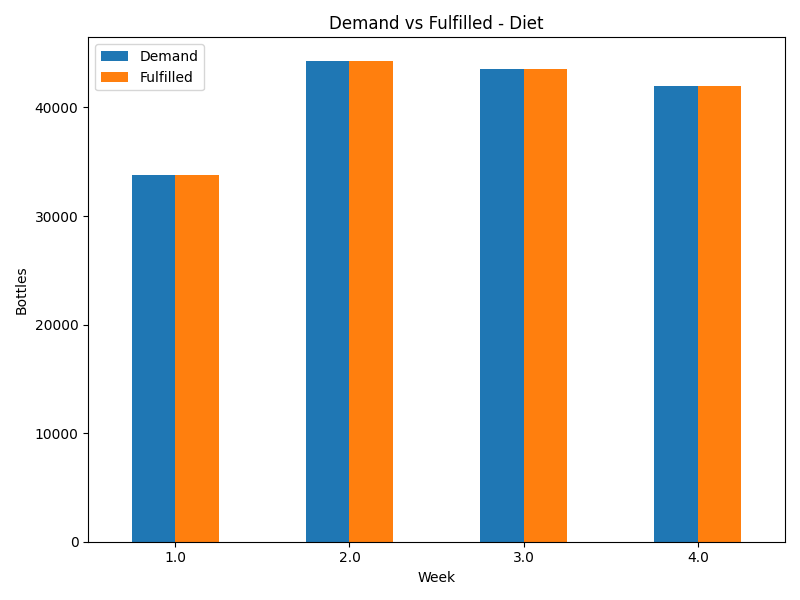
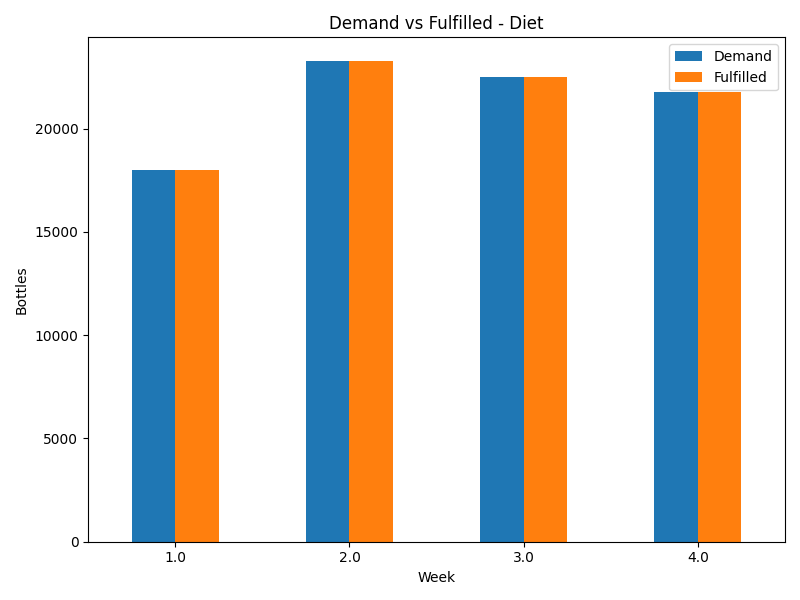
fixed

diff --git a/planner.py b/planner.py
@@ -12,8 +12,8 @@ os.makedirs(OUTPUT_DIR, exist_ok=True)
 RESERVE_CAPACITY = 5000
 current_reserve = RESERVE_CAPACITY
 
-def generate_random_demand(num_weeks=4, base_regular_north=30000, base_diet_north=20000, 
-                          base_regular_south=25000, base_diet_south=15000, variance=0.2, seed=None):
+def generate_random_demand(num_weeks=4, base_regular_north=15000, base_diet_north=10000, 
+                          base_regular_south=12000, base_diet_south=8000, variance=0.2, seed=None):
     """
     Generate random demand data with some variance around base values
     
@@ -82,9 +82,10 @@ demand_data = generate_random_demand(num_weeks=4, seed=42).to_dict('list')
 demand_df = pd.DataFrame(demand_data)
 
 # ---------- Planning Logic ----------
-def plan_production_with_reserve(demand_df, capacity):
+def plan_production_with_reserve(demand_df, capacity, container_size=750):
     """
     Plan production considering reserve system.
+    Production is rounded to container multiples.
     When demand exceeds production, dip into reserve.
     When production exceeds demand, refill reserve.
     """
@@ -98,58 +99,76 @@ def plan_production_with_reserve(demand_df, capacity):
         diet_demand = row["North_Diet"] + row["South_Diet"]
         total_demand = reg_demand + diet_demand
         
-        # Calculate what we can produce this week
+        # Calculate what we can produce this week (round to container multiples)
         if total_demand <= capacity:
             # We can meet all demand with production
-            reg_prod = reg_demand
-            diet_prod = diet_demand
-            total_prod = total_demand
+            # Round each SKU production to container multiples
+            reg_prod = int(np.ceil(reg_demand / container_size)) * container_size
+            diet_prod = int(np.ceil(diet_demand / container_size)) * container_size
+            total_prod = reg_prod + diet_prod
+            
+            # Check if rounded production exceeds capacity
+            if total_prod > capacity:
+                # Scale down proportionally and round to containers
+                scale = capacity / total_prod
+                reg_prod = int(reg_prod * scale // container_size) * container_size
+                diet_prod = int(diet_prod * scale // container_size) * container_size
+                total_prod = reg_prod + diet_prod
             
             # Calculate surplus production
             surplus = capacity - total_prod
             
-            # Use surplus to refill reserve
-            reserve_refill = min(surplus, RESERVE_CAPACITY - current_reserve)
-            current_reserve += reserve_refill
-            
-            reserve_transactions.append({
-                'Week': week,
-                'Action': 'Refill',
-                'Amount': reserve_refill,
-                'Reserve_Before': current_reserve - reserve_refill,
-                'Reserve_After': current_reserve,
-                'Surplus_Used': reserve_refill,
-                'Remaining_Surplus': surplus - reserve_refill
-            })
+            # Use surplus to refill reserve (only if we have meaningful surplus)
+            if surplus >= container_size:
+                reserve_refill = min(surplus, RESERVE_CAPACITY - current_reserve)
+                # Round reserve refill to container multiples
+                reserve_refill = int(reserve_refill // container_size) * container_size
+                current_reserve += reserve_refill
+                
+                if reserve_refill > 0:
+                    reserve_transactions.append({
+                        'Week': week,
+                        'Action': 'Refill',
+                        'Amount': reserve_refill,
+                        'Reserve_Before': current_reserve - reserve_refill,
+                        'Reserve_After': current_reserve,
+                        'Surplus_Used': reserve_refill,
+                        'Remaining_Surplus': surplus - reserve_refill
+                    })
             
         else:
             # Demand exceeds capacity - need to use reserve
             deficit = total_demand - capacity
             reserve_used = min(deficit, current_reserve)
+            # Round reserve usage to container multiples
+            reserve_used = int(reserve_used // container_size) * container_size
             current_reserve -= reserve_used
             
-            # Scale production to capacity
-            scale = capacity / total_demand
-            reg_prod = int(reg_demand * scale)
-            diet_prod = int(diet_demand * scale)
+            # Scale production to capacity and round to containers
+            available_production = capacity + reserve_used
+            scale = available_production / total_demand
             
-            # Add reserve to production allocation proportionally
-            if total_demand > 0:
-                reg_from_reserve = int(reserve_used * reg_demand / total_demand)
-                diet_from_reserve = reserve_used - reg_from_reserve
-                
-                reg_prod += reg_from_reserve
-                diet_prod += diet_from_reserve
+            reg_prod = int(reg_demand * scale // container_size) * container_size
+            diet_prod = int(diet_demand * scale // container_size) * container_size
             
-            reserve_transactions.append({
-                'Week': week,
-                'Action': 'Use',
-                'Amount': reserve_used,
-                'Reserve_Before': current_reserve + reserve_used,
-                'Reserve_After': current_reserve,
-                'Deficit': deficit,
-                'Unmet_Demand': deficit - reserve_used
-            })
+            # Ensure we don't exceed available production
+            total_prod = reg_prod + diet_prod
+            if total_prod > available_production:
+                # Reduce proportionally
+                scale_down = available_production / total_prod
+                reg_prod = int(reg_prod * scale_down // container_size) * container_size
+                diet_prod = int(diet_prod * scale_down // container_size) * container_size
+            
+            if reserve_used > 0:
+                reserve_transactions.append({
+                    'Week': week,
+                    'Action': 'Use',
+                    'Amount': reserve_used,
+                    'Reserve_Before': current_reserve + reserve_used,
+                    'Reserve_After': current_reserve,
+                    'Deficit': deficit,
+                    'Unmet_Demand': max(0, total_demand - capacity - reserve_used)
+                })
         
         prod.append([week, reg_prod, diet_prod])
     
@@ -160,10 +179,11 @@ def plan_production_with_reserve(demand_df, capacity):
 
 def plan_production(demand_df, capacity):
     """Wrapper for backward compatibility"""
-    prod_df, _ = plan_production_with_reserve(demand_df, capacity)
+    prod_df, _ = plan_production_with_reserve(demand_df, capacity, container_size=750)
     return prod_df
 
 def allocate_fair_share(demand_df, prod_df):
+    """Allocate production to DCs, ensuring exact match with production totals"""
     shipments = []
     for i, row in demand_df.iterrows():
         week = row["Week"]
@@ -171,17 +191,32 @@ def allocate_fair_share(demand_df, prod_df):
         for sku in ["Regular", "Diet"]:
             total_demand = row[f"North_{sku}"] + row[f"South_{sku}"]
             supply = prod_row[sku]
+            
             if total_demand == 0:
                 n_share, s_share = 0, 0
+            elif total_demand <= supply:
+                # We have enough supply, allocate exact demand
+                n_share = row[f"North_{sku}"]
+                s_share = row[f"South_{sku}"]
             else:
-                n_share = int(supply * row[f"North_{sku}"] / total_demand)
-                s_share = supply - n_share
+                # Supply is less than demand, allocate proportionally
+                n_proportion = row[f"North_{sku}"] / total_demand
+                s_proportion = row[f"South_{sku}"] / total_demand
+                
+                n_share = int(supply * n_proportion)
+                s_share = supply - n_share  # Ensure total equals supply exactly
+                
             shipments.append([week, sku, "North", n_share])
             shipments.append([week, sku, "South", s_share])
     return pd.DataFrame(shipments, columns=["Week", "SKU", "DC", "Qty"])
 
 def apply_smart_truck_rounding_with_buffer(ship_df, demand_df, truck_size, safety, initial_inventory=None):
-    """Enhanced truck rounding with buffer stock consumption and replenishment"""
+    """
+    Apply truck rounding where:
+    - Shipments are in multiples of 750 (container size)
+    - Trucks are calculated to carry the required containers
+    - Maintain safety stock levels
+    """
     ship_df = ship_df.copy()
     
     # Initialize inventory if not provided
@@ -191,7 +226,7 @@ def apply_smart_truck_rounding_with_buffer(ship_df, demand_df, truck_size, safet
     else:
         inv = initial_inventory.copy()
     
-    # Process week by week to make informed decisions
+    # Process week by week
     for week in sorted(ship_df["Week"].unique()):
         week_shipments = ship_df[ship_df["Week"] == week].copy()
         week_demand = demand_df[demand_df["Week"] == week].iloc[0]
@@ -199,55 +234,26 @@ def apply_smart_truck_rounding_with_buffer(ship_df, demand_df, truck_size, safet
         for idx, row in week_shipments.iterrows():
             dc = row["DC"]
             sku = row["SKU"]
-            proposed_qty = row["Qty"]
+            allocated_qty = row["Qty"]  # This should already be in multiples of 750 from production
             
-            # Calculate actual need considering buffer stock can be consumed
+            # Calculate actual need considering current inventory and safety stock
             current_inv = inv[(dc, sku)]
             demand = week_demand[f"{dc}_{sku}"]
             
-            # Minimum needed to cover demand (can eat into buffer stock)
-            min_needed = max(0, demand - current_inv)
+            # The allocated quantity should already be optimal from production planning
+            # Just ensure it's in container multiples and calculate trucks needed
+            final_qty = allocated_qty  # Already in multiples of 750
             
-            # Preferred amount to replenish buffer stock
-            preferred_needed = max(0, demand + safety - current_inv)
-            
-            # Calculate truck options
-            min_trucks = int(min_needed // truck_size) if min_needed > 0 else 0
-            preferred_trucks = int(np.ceil(preferred_needed / truck_size)) if preferred_needed > 0 else 0
-            
-            min_qty = min_trucks * truck_size
-            preferred_qty = preferred_trucks * truck_size
-            
-            # Evaluate outcomes
-            ending_inv_min = current_inv + min_qty - demand
-            ending_inv_preferred = current_inv + preferred_qty - demand
-            
-            # Decision logic with buffer stock flexibility
-            if min_qty >= min_needed:
-                # Can fulfill demand with minimum shipment
-                if (preferred_qty - min_qty) <= (truck_size * 0.5):
-                    # Small difference, prefer to replenish buffer
-                    chosen_qty = preferred_qty
-                    chosen_trucks = preferred_trucks
-                elif ending_inv_min >= 0:
-                    # Minimum shipment leaves non-negative inventory
-                    chosen_qty = min_qty
-                    chosen_trucks = min_trucks
-                else:
-                    # Need at least one truck to avoid stockout
-                    chosen_qty = truck_size
-                    chosen_trucks = 1
-            else:
-                # Need more than minimum - go with preferred
-                chosen_qty = preferred_qty
-                chosen_trucks = preferred_trucks
+            # Calculate trucks needed to carry this quantity
+            # Each truck can carry truck_size bottles
+            trucks_needed = int(np.ceil(final_qty / truck_size)) if final_qty > 0 else 0
             
             # Update the dataframe
-            ship_df.at[idx, "Trucks"] = chosen_trucks
-            ship_df.at[idx, "Qty"] = chosen_qty
+            ship_df.at[idx, "Trucks"] = trucks_needed
+            ship_df.at[idx, "Qty"] = final_qty
             
-            # Update inventory for next iteration (can go below safety stock)
-            inv[(dc, sku)] = max(0, current_inv + chosen_qty - demand)
+            # Update inventory for next iteration
+            inv[(dc, sku)] = max(safety, current_inv + final_qty - demand)
     
     return ship_df
 
@@ -260,7 +266,7 @@ def apply_truck_rounding(ship_df, truck_size):
     return apply_smart_truck_rounding(ship_df, demand_df, truck_size, 5000)
 
 def simulate_inventory_with_buffer(ship_df, demand_df, safety):
-    """Simulate inventory allowing buffer stock consumption and replenishment"""
+    """Simulate inventory with safety stock protection"""
     records = []
     inv = {("North","Regular"):safety, ("North","Diet"):safety,
            ("South","Regular"):safety, ("South","Diet"):safety}
@@ -273,12 +279,14 @@ def simulate_inventory_with_buffer(ship_df, demand_df, safety):
                 demand = row[f"{dc}_{sku}"]
                 start = inv[(dc,sku)]
                 
-                # Calculate ending inventory (can go below safety stock)
+                # Calculate ending inventory
                 end = start + arrivals - demand
-                actual_end = max(0, end)  # Can't go negative
                 
-                # Track if we're below safety stock
-                buffer_used = max(0, safety - actual_end)
+                # Ensure we maintain minimum safety stock
+                actual_end = max(safety, end)
+                
+                # Track buffer usage (when we would have gone below safety without protection)
+                buffer_used = max(0, safety - end) if end < safety else 0
                 
                 records.append([week, dc, sku, start, arrivals, demand, actual_end, buffer_used])
                 inv[(dc,sku)] = actual_end
@@ -439,7 +447,7 @@ def run_planner(capacity, truck_size, safety, demand_df=None, container_size=750
     # Apply outflow container rounding to demand
     demand_df = apply_outflow_container_rounding(demand_df, container_size)
     
-    prod_df, reserve_df = plan_production_with_reserve(demand_df, capacity)
+    prod_df, reserve_df = plan_production_with_reserve(demand_df, capacity, container_size)
     ship_df = allocate_fair_share(demand_df, prod_df)
     ship_df = apply_smart_truck_rounding(ship_df, demand_df, truck_size, safety)
     inv_df = simulate_inventory(ship_df, demand_df, safety)
@@ -498,7 +506,7 @@ if __name__ == "__main__":
     # Apply outflow container rounding
     demand_df = apply_outflow_container_rounding(demand_df, args.container)
 
-    prod_df, reserve_df = plan_production_with_reserve(demand_df, args.capacity)
+    prod_df, reserve_df = plan_production_with_reserve(demand_df, args.capacity, args.container)
     ship_df = allocate_fair_share(demand_df, prod_df)
     ship_df = apply_smart_truck_rounding(ship_df, demand_df, args.truck, args.safety)
     inv_df = simulate_inventory_with_buffer(ship_df, demand_df, args.safety)
